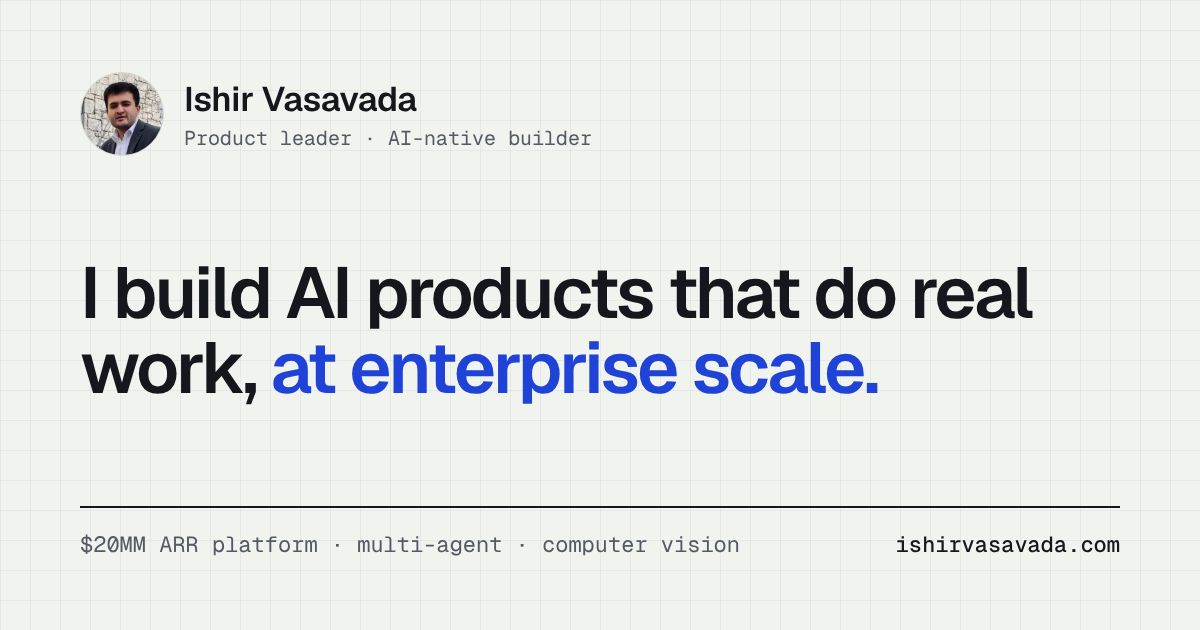
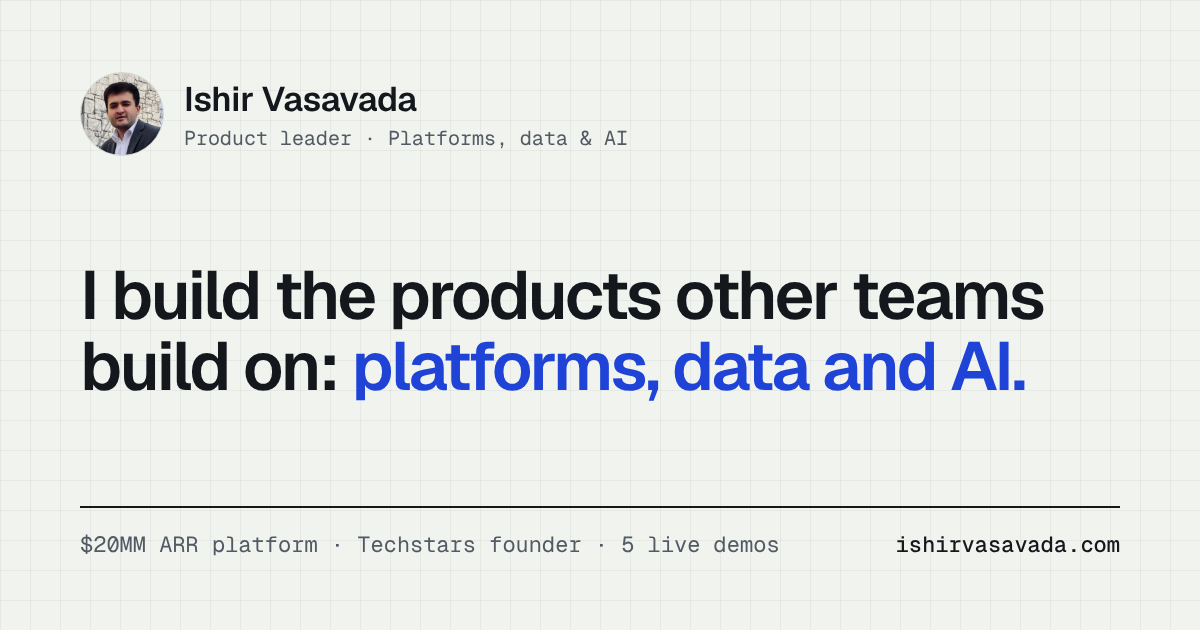
Broaden positioning, add Ecodrop gamification and related-word search
- Headline and intro lead with platforms, data and range (finance,
  consulting, founder) with AI as one strength, not the whole story.
- Replaces Education with a Range list; adds two AI certifications
  marked in progress.
- Renames Ecodrop to Ecodrop Technologies and adds a campus leaderboard
  and live feed that update as you scan.
- Recognito gets more suggested searches and matches related words.
- Refreshes the share image for the new headline.

Claude-Session: https://claude.ai/code/session_01EEA4MCuWAFqGd5yvywTQwj

Changed region(s): [[0.0617, 0.4222, 0.8942, 0.6333], [0.2775, 0.8444, 0.6475, 0.8746], [0.3083, 0.2111, 0.5242, 0.2413]]

diff --git a/index.html b/index.html
@@ -1,6 +1,6 @@
 <title>Ishir Vasavada</title>
 <meta name="claude:viewport-fit-sides" content="cover">
-<meta name="description" content="Ishir Vasavada builds AI products at enterprise scale: agentic developer platforms, multi-agent systems and computer vision. Try five of them in the browser.">
+<meta name="description" content="Ishir Vasavada: product leader for platforms, data and AI, with a background in finance, consulting and founding a startup. Try five of his products in the browser.">
 <link rel="preconnect" href="https://fonts.googleapis.com">
 <link rel="preconnect" href="https://fonts.gstatic.com" crossorigin>
 <link rel="stylesheet" href="https://fonts.googleapis.com/css2?family=Geist:wght@400;500;600;700&family=Geist+Mono:wght@400;500&display=swap">
@@ -314,6 +314,24 @@ pre.code .cm{color:var(--ink-3)}
 .lad-bar{height:4px;border-radius:2px;background:var(--rule);margin-top:4px;overflow:hidden;grid-column:1/-1}
 .lad-bar i{display:block;height:100%;background:var(--accent);transition:width .5s}
 
+.eco-social{display:grid;grid-template-columns:minmax(0,1fr) minmax(0,1.2fr);gap:28px;padding:20px 24px;border-top:1px solid var(--rule)}
+.eco-social > *{min-width:0}
+.board{list-style:none;margin:0;padding:0;display:grid;gap:4px}
+.board li{display:grid;grid-template-columns:22px minmax(0,1fr) auto;gap:10px;align-items:center;font-size:var(--t-sm);padding:6px 10px;border-radius:7px;border:1px solid transparent}
+.board li .rk{font-family:var(--f-mono);font-size:11.5px;color:var(--ink-3)}
+.board li .bp{font-family:var(--f-mono);font-size:12px;color:var(--ink-2)}
+.board li:nth-child(1) .rk{color:var(--accent);font-weight:500}
+.board li.me{border-color:var(--accent-mid);background:var(--accent-soft);font-weight:600}
+.feed{list-style:none;margin:0;padding:0;display:grid;gap:2px}
+.feed li{position:relative;font-size:13px;color:var(--ink-2);padding:7px 0 7px 16px;border-bottom:1px dashed var(--rule)}
+.feed li::before{content:"";position:absolute;left:0;top:13px;width:7px;height:7px;border-radius:50%;background:var(--ok)}
+.feed li.prize::before{background:var(--accent)}
+.feed li b{color:var(--ink);font-weight:600}
+.feed li .ft{float:right;font-family:var(--f-mono);font-size:11px;color:var(--ink-3);margin-left:8px}
+.feed li.me b{color:var(--accent)}
+.feed li.new{animation:flash 1.4s ease-out}
+@media (max-width:720px){ .eco-social{grid-template-columns:1fr} }
+
 /* recognito */
 .rec-video{display:block;width:100%;max-width:100%;aspect-ratio:16/9;background:var(--ink);border-radius:10px;object-fit:cover}
 .rec-strip{position:relative;height:30px;margin:10px 0 14px;border-radius:6px;background:var(--paper);border:1px solid var(--rule);cursor:pointer;overflow:hidden}
@@ -330,6 +348,7 @@ pre.code .cm{color:var(--ink-3)}
 .rec-hits button:hover{border-color:var(--accent)}
 .rec-hits .ts{font-family:var(--f-mono);font-size:12px;color:var(--accent);font-variant-numeric:tabular-nums}
 .rec-hits .empty{color:var(--ink-2);font-size:var(--t-sm);padding:6px 0}
+.relw{font-family:var(--f-mono);font-size:10px;letter-spacing:.06em;text-transform:uppercase;color:var(--ink-3);border:1px solid var(--rule);border-radius:999px;padding:1px 6px;margin-left:4px;white-space:nowrap}
 mark{background:var(--accent-soft);color:var(--accent);border-radius:3px;padding:0 2px;font-weight:500}
 .rec-tx{position:relative;max-height:300px;overflow-y:auto;border:1px solid var(--rule);border-radius:10px;background:var(--paper);padding:6px 0;margin-bottom:16px}
 .rec-line{display:grid;grid-template-columns:44px minmax(0,1fr);gap:8px;padding:5px 12px;font-size:var(--t-sm);line-height:1.6}
@@ -438,6 +457,7 @@ mark{background:var(--accent-soft);color:var(--accent);border-radius:3px;padding
 .creds h4{margin:0 0 8px;font-family:var(--f-mono);font-size:var(--t-xs);letter-spacing:.08em;text-transform:uppercase;color:var(--ink-2);font-weight:500}
 .creds p{margin:0;font-size:var(--t-sm);color:var(--ink)}
 .creds p + p{margin-top:4px}
+.inprog{display:inline-block;margin-left:6px;font-family:var(--f-mono);font-size:10px;letter-spacing:.06em;text-transform:uppercase;color:var(--warn);border:1px solid currentColor;border-radius:999px;padding:1px 6px;vertical-align:1px}
 @media (max-width:820px){ .creds{grid-template-columns:1fr} }
 
 /* ——— product brief ——— */
@@ -514,10 +534,10 @@ mark{background:var(--accent-soft);color:var(--accent);border-radius:3px;padding
     <div>
       <div class="who">
         <img class="avatar" src="media/ishir-avatar.webp" alt="" width="56" height="56">
-        <div><div class="name">Ishir Vasavada</div><div class="sub">Product leader · Techstars founder · AI-native builder</div></div>
+        <div><div class="name">Ishir Vasavada</div><div class="sub">Product leader · Platforms, data &amp; AI · Techstars founder</div></div>
       </div>
-      <h1 id="h-hero">I build AI products that do real work, <em>at enterprise scale.</em></h1>
-      <p class="intro">I've spent 6+ years on enterprise platform and data products used by thousands of companies. I own a <strong>$20MM ARR</strong> developer platform, where I pitched in-app AI agents to leadership in <strong>January 2023</strong> and then shipped them. Before that I co-founded a computer-vision startup backed by Techstars and AWS. I lead cross-functional teams of up to 8, and I still build AI products hands-on.</p>
+      <h1 id="h-hero">I build the products other teams build on: <em>platforms, data and AI.</em></h1>
+      <p class="intro">I've spent 6+ years on enterprise platform and data products used by thousands of companies, and today I own a <strong>$20MM ARR</strong> developer platform. I started in finance, worked as a technology consultant and co-founded a Techstars-backed startup, so I'm as comfortable with the P&amp;L and the architecture as I am with customers. I lead cross-functional teams of up to 8, and I pitched in-app AI agents to leadership in <strong>January 2023</strong>, then shipped them.</p>
       <div class="hero-actions">
         <a class="btn primary" href="#work">Try the products ↓</a>
         <a class="btn" href="https://www.linkedin.com/in/ishirvasavada" target="_blank" rel="noopener">LinkedIn ↗</a>
@@ -553,13 +573,13 @@ mark{background:var(--accent-soft);color:var(--accent);border-radius:3px;padding
 <!-- ═══════════ WORK ═══════════ -->
 <section class="sheet wrap" id="work" aria-labelledby="h-work">
   <div class="sheet-head">
-    <div><span class="tag"><b>Sheet 01</b> Work</span><h2 id="h-work">Five AI products you can try</h2></div>
-    <p class="lede">From an agentic enterprise platform to a startup's computer vision. Every one runs here in the browser. Pick one.</p>
+    <div><span class="tag"><b>Sheet 01</b> Work</span><h2 id="h-work">Five products you can try</h2></div>
+    <p class="lede">An enterprise platform, a startup, a side project and two tools for construction crews. Each one runs here in the browser. Pick one.</p>
   </div>
 
   <div class="wtabs" id="work-tabs" role="tablist" aria-label="Products">
     <button class="wtab" role="tab" id="wt-rules" aria-controls="wp-rules" aria-selected="true" type="button"><span class="wk">Enterprise platform</span><span class="wn">Agentic rules engine</span><span class="wo">Wide adoption, 3× faster setup</span></button>
-    <button class="wtab" role="tab" id="wt-eco" aria-controls="wp-eco" aria-selected="false" type="button"><span class="wk">Startup · vision</span><span class="wn">Ecodrop</span><span class="wo">10,000+ users, Techstars-backed</span></button>
+    <button class="wtab" role="tab" id="wt-eco" aria-controls="wp-eco" aria-selected="false" type="button"><span class="wk">Startup · vision</span><span class="wn">Ecodrop Technologies</span><span class="wo">10,000+ users, Techstars-backed</span></button>
     <button class="wtab" role="tab" id="wt-rec" aria-controls="wp-rec" aria-selected="false" type="button"><span class="wk">Speech search</span><span class="wn">Recognito</span><span class="wo">Jump to the second a word is said</span></button>
     <button class="wtab" role="tab" id="wt-plan" aria-controls="wp-plan" aria-selected="false" type="button"><span class="wk">Document AI</span><span class="wn">Floor plan reader</span><span class="wo">Drawings into structured data</span></button>
     <button class="wtab" role="tab" id="wt-jc" aria-controls="wp-jc" aria-selected="false" type="button"><span class="wk">Multi-agent</span><span class="wn">Job-cost agents</span><span class="wo">Catches duplicates and overruns before they post</span></button>
@@ -596,8 +616,8 @@ mark{background:var(--accent-soft);color:var(--accent);border-radius:3px;padding
   <!-- Ecodrop -->
   <article class="build" aria-labelledby="h-eco">
     <div class="build-head">
-      <div><h3 id="h-eco">Ecodrop</h3><p>The company I co-founded (it launched as Conserve). Snap a photo of an item, learn whether it's recyclable, and earn points toward partner rewards. Pick an item to scan and compare the computer-vision version we shipped with a multimodal LLM rebuild.</p></div>
-      <div class="meta"><span class="chip a">computer vision</span><span class="chip">React Native</span><span class="chip">Techstars · AWS</span></div>
+      <div><h3 id="h-eco">Ecodrop Technologies</h3><p>The company I co-founded (it launched as Conserve). Snap a photo of an item, learn whether it's recyclable, and earn points toward partner rewards. A campus leaderboard and a live feed turned recycling into a game. Pick an item to scan and compare the computer-vision version we shipped with a multimodal LLM rebuild.</p></div>
+      <div class="meta"><span class="chip a">computer vision</span><span class="chip">React Native</span><span class="chip">Techstars · AWS</span><span class="chip">gamification</span></div>
     </div>
     <dl class="brief">
       <div><dt>Who it's for</dt><dd>University students and staff, plus local merchants who fund the rewards</dd></div>
@@ -633,7 +653,17 @@ mark{background:var(--accent-soft);color:var(--accent);border-radius:3px;padding
         <ol class="trace" id="eco-trace"></ol>
         <p class="small-h">Rewards · <span class="mono num" id="eco-pts">140</span> points</p>
         <div class="ladder" id="eco-ladder"></div>
-        <p class="note" style="margin-top:12px">The computer-vision trace follows the app's own matching code: Google Cloud Vision labels, split into words, checked against a materials list, then a product list. Vision labels and LLM outputs shown are representative examples. Reward ladder and 10 points per item are from the original partner deck.</p>
+        <p class="note" style="margin-top:12px">The computer-vision trace follows the app's own matching code: labels from a cloud vision API, split into words, checked against a materials list, then a product list. Vision labels and LLM outputs shown are representative examples. Reward ladder and 10 points per item are from the original partner deck.</p>
+      </div>
+    </div>
+    <div class="eco-social">
+      <div>
+        <p class="small-h">Campus leaderboard · this week</p>
+        <ol class="board" id="eco-board"></ol>
+      </div>
+      <div>
+        <p class="small-h">Live feed</p>
+        <ul class="feed" id="eco-feed" aria-live="polite"></ul>
       </div>
     </div>
   </article>
@@ -657,10 +687,10 @@ mark{background:var(--accent-soft);color:var(--accent);border-radius:3px;padding
         <form class="rec-search" id="rec-form" role="search" autocomplete="off">
           <label for="rec-q" class="sr">Search what is said in the video</label>
           <svg width="16" height="16" viewBox="0 0 16 16" aria-hidden="true"><circle cx="7" cy="7" r="5" fill="none" stroke="currentColor" stroke-width="1.6"/><path d="M11 11l3.5 3.5" stroke="currentColor" stroke-width="1.6"/></svg>
-          <input id="rec-q" type="search" value="nothing" placeholder="Search a word or phrase">
+          <input id="rec-q" type="search" value="nothing" placeholder="Any word you hear: see, left, really…">
           <span class="rec-count mono" id="rec-count" aria-live="polite"></span>
         </form>
-        <div class="rec-try"><span class="note">TRY</span><button type="button" class="mini">nothing</button><button type="button" class="mini">right side</button><button type="button" class="mini">Emo</button><button type="button" class="mini">what do you see</button></div>
+        <div class="rec-try"><span class="note">TRY</span><button type="button" class="mini">nothing</button><button type="button" class="mini">right side</button><button type="button" class="mini">close your eyes</button><button type="button" class="mini">really</button><button type="button" class="mini">same</button><button type="button" class="mini">Proog</button><button type="button" class="mini" title="Finds the related word: see">look</button><button type="button" class="mini" title="Finds the related word: great">awesome</button></div>
         <ul class="rec-hits" id="rec-hits"></ul>
       </div>
       <div class="pane">
@@ -847,9 +877,10 @@ chrome.runtime.onMessage.addListener(
   <div class="role" id="role" aria-live="polite"></div>
 
   <div class="creds">
-    <div><h4>Education</h4><p>Georgia State University, Robinson College of Business</p><p style="color:var(--ink-2)">BBA, Finance &amp; Computer Information Systems. Finance Honors, President's List, Shulman Scholar.</p></div>
-    <div><h4>AI credentials</h4><p>AWS Certified AI Practitioner</p><p>Agentic AI (Andrew Ng)</p><p>Azure AI Fundamentals (AI-900)</p></div>
-    <div><h4>Also</h4><p>U.S. Patent Pending 63/502,475</p><p>Certified Scrum Product Owner</p><p>Product Analytics, Product School</p></div>
+    <div><h4>Range</h4><p>Product strategy, discovery and go-to-market</p><p>Platform, API and data architecture</p><p>Pricing, packaging and unit economics</p><p>Hands-on prototyping, from mobile apps to agents</p></div>
+    <div><h4>AI credentials</h4><p>AWS Certified AI Practitioner</p><p>Azure AI Fundamentals (AI-900)</p><p>Agentic AI (Andrew Ng)</p><p>AWS Certified Machine Learning Engineer – Associate <span class="inprog">in progress</span></p><p>Azure AI Engineer Associate (AI-102) <span class="inprog">in progress</span></p></div>
+    <div><h4>Also</h4><p>U.S. Patent Pending 63/502,475</p><p>Certified Scrum Product Owner</p><p>Product Analytics, Product School</p><p>SAFe 5 Agile</p></div>
+  </div>
   </div>
 </section>
 
@@ -857,7 +888,7 @@ chrome.runtime.onMessage.addListener(
 <section class="contact wrap" id="contact" aria-labelledby="h-contact">
   <span class="tag"><b>Sheet 04</b> Contact</span>
   <h2 id="h-contact" style="margin-top:14px">Let's compare notes.</h2>
-  <p class="contact-line">I'm always glad to talk product, agents and where AI is heading. Email is the fastest way to reach me.</p>
+  <p class="contact-line">I'm always glad to talk product, platforms and where AI is heading. Email is the fastest way to reach me.</p>
   <div class="row">
     <span class="email" id="email">ishirv00@gmail.com</span>
     <button class="btn" type="button" id="copy">Copy email</button>
@@ -868,7 +899,7 @@ chrome.runtime.onMessage.addListener(
   <div class="titleblock" aria-label="Site details">
     <div><span class="k">Project</span><span class="v">Ishir Vasavada · Product</span></div>
     <div><span class="k">Location</span><span class="v">Atlanta, GA</span></div>
-    <div><span class="k">Revision</span><span class="v">02 · Nov 2026</span></div>
+    <div><span class="k">Revision</span><span class="v">03 · Nov 2026</span></div>
     <div><span class="k">Built with</span><span class="v">AI coding agents</span></div>
     <div><span class="k">Sheet</span><span class="v">04 of 04</span></div>
   </div>
@@ -1276,8 +1307,25 @@ const esc = s => String(s).replace(/[&<>"]/g, c => ({'&':'&amp;','<':'&lt;','>':
       const before = pts; pts += add;
       const crossed = TIERS.findIndex(([p]) => before < p && pts >= p);
       ladder(crossed);
+      feed.unshift({who:'You', what: add ? `recycled a ${d.n.toLowerCase()} · +${add} pts` : `scanned a ${d.n.toLowerCase()} · not accepted`, t:'just now', me:true});
+      if (crossed >= 0) feed.unshift({who:'You', what:`unlocked ${TIERS[crossed][1]}`, t:'just now', me:true, prize:true});
+      social();
     } else ladder(-1);
   }
+  // Gamification: sample campus leaderboard and live feed (illustrative names)
+  const PEERS = [['Priya S.', 1240], ['Marcus T.', 980], ['Dana K.', 610], ['Jordan L.', 300], ['Alex R.', 120]];
+  const feed = [
+    {who:'Priya S.', what:'recycled 3 aluminum cans · +30 pts', t:'2m ago'},
+    {who:'Marcus T.', what:'unlocked 10% off coupon', t:'9m ago', prize:true},
+    {who:'Dana K.', what:'recycled a cardboard box · +10 pts', t:'14m ago'},
+    {who:'Jordan L.', what:'joined the weekly challenge', t:'21m ago'},
+  ];
+  function social() {
+    const rows = PEERS.map(([n, p]) => ({n, p})).concat([{n:'You', p:pts, me:true}]).sort((x, y) => y.p - x.p);
+    $('#eco-board').innerHTML = rows.map((r, i) => `<li class="${r.me ? 'me' : ''}"><span class="rk num">${i + 1}</span><span class="bn">${esc(r.n)}</span><span class="bp num">${fmt(r.p)}</span></li>`).join('');
+    $('#eco-feed').innerHTML = feed.slice(0, 5).map((f, i) => `<li class="${f.me ? 'me' : ''}${f.prize ? ' prize' : ''}${f.me && i === 0 ? ' new' : ''}"><b>${esc(f.who)}</b> ${esc(f.what)}<span class="ft">${esc(f.t)}</span></li>`).join('');
+  }
+  social();
   tray.addEventListener('click', e => { const b = e.target.closest('button'); if (b) show(+b.dataset.i, true); });
   $('#eco-mode').addEventListener('click', e => {
     const b = e.target.closest('button'); if (!b) return; mode = b.dataset.m;
@@ -1306,13 +1354,24 @@ const esc = s => String(s).replace(/[&<>"]/g, c => ({'&':'&amp;','<':'&lt;','>':
   tx.addEventListener('click', e => { const b = e.target.closest('.rec-w'); if (b) seek(W[+b.dataset.i].s); });
   strip.addEventListener('click', e => { const r = strip.getBoundingClientRect(); vid.currentTime = (e.clientX - r.left) / r.width * dur(); });
 
+  // Related words, so a search works on meaning as well as exact wording
+  const REL = {see:['look','looking','watch','view','spot','notice'], nothing:['none','nobody','empty','zero','anything'], close:['shut'],
+    eyes:['eye'], ok:['okay','sure','yes','alright','fine'], good:['nice','well'], great:['awesome','excellent','amazing','wonderful','perfect'],
+    same:['identical','alike'], exactly:['precisely','totally'], really:['truly','seriously'], left:['west'], right:['east'], now:['immediately','quickly']};
+  const relOf = t => Object.keys(REL).filter(k => REL[k].includes(t));
   function search(str) {
     const toks = (str.toLowerCase().match(/[a-z']+/g) || []);
     if (!toks.length) return [];
     const hits = [];
     for (let i = 0; i + toks.length <= W.length; i++) {
-      const ok = toks.every((t,k) => { const n = W[i+k].n; return k === toks.length-1 && t.length >= 3 ? n.startsWith(t) : n === t; });
-      if (ok) hits.push({i, len:toks.length});
+      let rel = false;
+      const ok = toks.every((t,k) => {
+        const n = W[i+k].n;
+        if (k === toks.length-1 && t.length >= 3 ? n.startsWith(t) : n === t) return true;
+        if (relOf(t).includes(n)) { rel = true; return true; }
+        return false;
+      });
+      if (ok) hits.push({i, len:toks.length, rel});
     }
     return hits;
   }
@@ -1328,8 +1387,8 @@ const esc = s => String(s).replace(/[&<>"]/g, c => ({'&':'&amp;','<':'&lt;','>':
     hitsEl.innerHTML = hits.length ? hits.map(h => {
       const li = W[h.i].li;
       const line = W.map((w,i) => w.li!==li ? null : (i>=h.i && i<h.i+h.len ? `<mark>${esc(w.t)}</mark>` : esc(w.t))).filter(x => x!==null).join(' ');
-      return `<li><button type="button" data-t="${W[h.i].s}"><span class="ts">${clock(W[h.i].s)}</span><span>${line}</span></button></li>`;
-    }).join('') : (q.value.trim() ? `<li class="empty">Not said in this clip. Try a word from the transcript.</li>` : '');
+      return `<li><button type="button" data-t="${W[h.i].s}"><span class="ts">${clock(W[h.i].s)}</span><span>${line}${h.rel ? ' <span class="relw">related word</span>' : ''}</span></button></li>`;
+    }).join('') : (q.value.trim() ? `<li class="empty">Not said in this clip. Try any word from the transcript on the right.</li>` : '');
   }
   hitsEl.addEventListener('click', e => { const b = e.target.closest('button'); if (b) seek(+b.dataset.t); });
   q.addEventListener('input', render);
@@ -1389,7 +1448,7 @@ const esc = s => String(s).replace(/[&<>"]/g, c => ({'&':'&amp;','<':'&lt;','>':
     {lane:'ent', n:'Capgemini', s:2020.84, e:2021.84, t:'Technology Consultant', y:'2020 – 2021', big:'$10MM+', bigl:'in project renewals secured', pts:['Directed technical strategy for the <strong>virginvoyages.com</strong> replatform to Next.js and GraphQL: <strong>2.2×</strong> faster site, lower churn','Managed client stakeholders through delivery with high CSAT scores']},
     {lane:'ent', n:'OneTrust', s:2021.84, e:2022.56, t:'Product Manager · Series C scale-up', y:'2021 – 2022', big:'$5MM+', bigl:'incremental revenue from tiered storage upsell', pts:['Launched Data Governance and <strong>Responsible AI</strong> products to <strong>3,500+</strong> enterprise customers','Improved team shipping velocity by <strong>35%</strong> with structured sprint planning and clearer technical requirements','Built the upsell strategy for the Privacy by Design Object Store within the <strong>$50MM</strong> OnePlatform offering']},
     {lane:'ent', n:'Zuora', s:2022.6, e:NOW, now:true, t:'Senior Product Manager · Platform Foundations', y:'2022 – now', big:'$20MM ARR', bigl:'developer platform portfolio I own', pts:['Own the developer-facing layer of the platform: custom logic, decision tables, JS functions and decision trees, supporting a <strong>Gartner Leader</strong> placement','Pitched in-app AI agents to senior leadership in <strong>January 2023</strong>, then launched <strong>Agentic Custom Objects, Custom Fields and Rules Engine</strong>: wide adoption, 3× faster implementation, less custom code and third-party decisioning software','Built the <strong>Central Metadata Repository</strong>: millions of records behind every product team\'s objects, including dynamic pricing','Data Retention suite: <strong>$2MM a year</strong> saved. Japan Data Center: <strong>$15MM</strong> in deal flow']},
-    {lane:'fnd', n:'Ecodrop', s:2019.6, e:2023.55, t:'Co-founder, Product & Strategy', y:'2019 – 2023', big:'$200K+', bigl:'raised through Techstars and AWS accelerators', pts:['Recycling marketplace: <strong>10,000+ users</strong>, 15+ merchant partners, 4 university customers, $8.5K MRR','Led a team of 5+ to build a React Native app with <strong>computer vision</strong>, a companion reverse vending machine and a merchant-funded rewards program','U.S. patent pending 63/502,475']},
+    {lane:'fnd', n:'Ecodrop Technologies', s:2019.6, e:2023.55, t:'Co-founder, Product & Strategy', y:'2019 – 2023', big:'$200K+', bigl:'raised through Techstars and AWS accelerators', pts:['Recycling marketplace: <strong>10,000+ users</strong>, 15+ merchant partners, 4 university customers, $8.5K MRR','Led a team of 5+ to build a React Native app with <strong>computer vision</strong>, a companion reverse vending machine and a merchant-funded rewards program','U.S. patent pending 63/502,475']},
   ];
   const pct = v => ((v - T0) / (T1 - T0)) * 100;
   const roleEl = $('#role');
